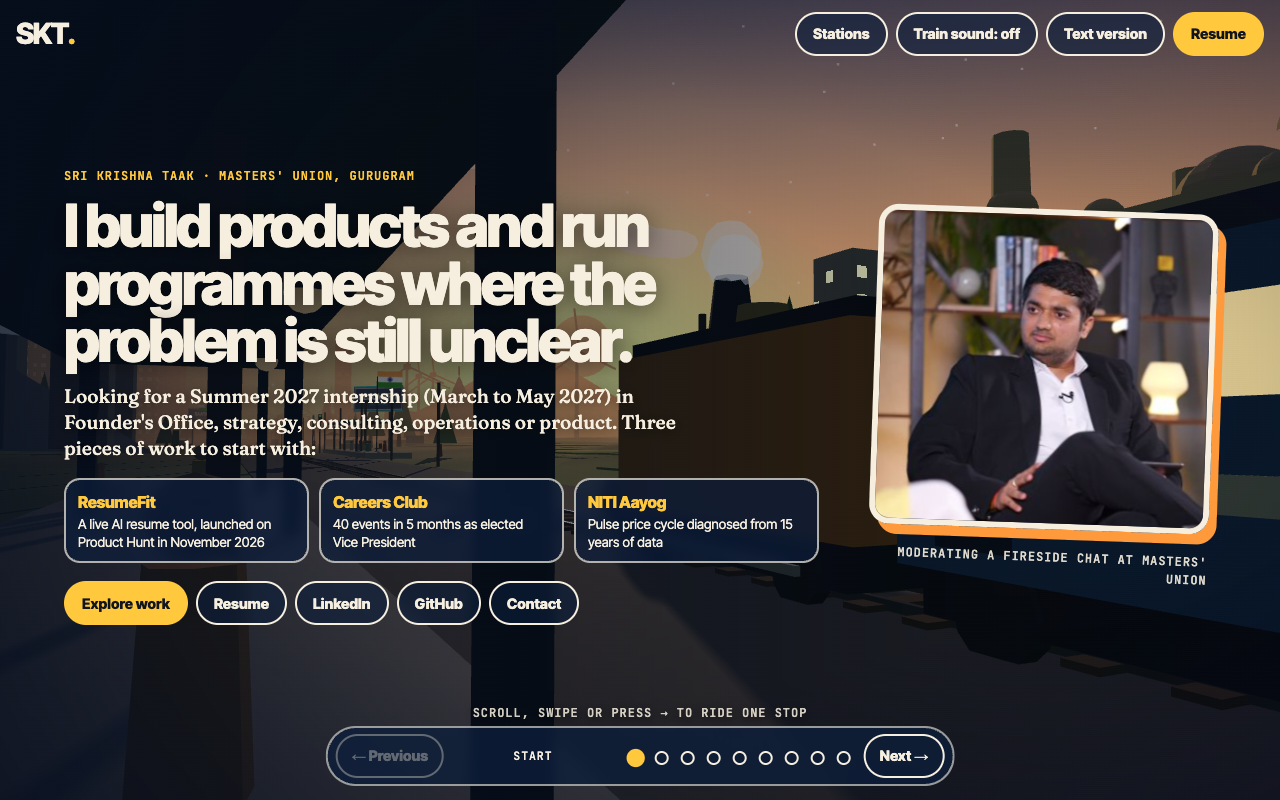
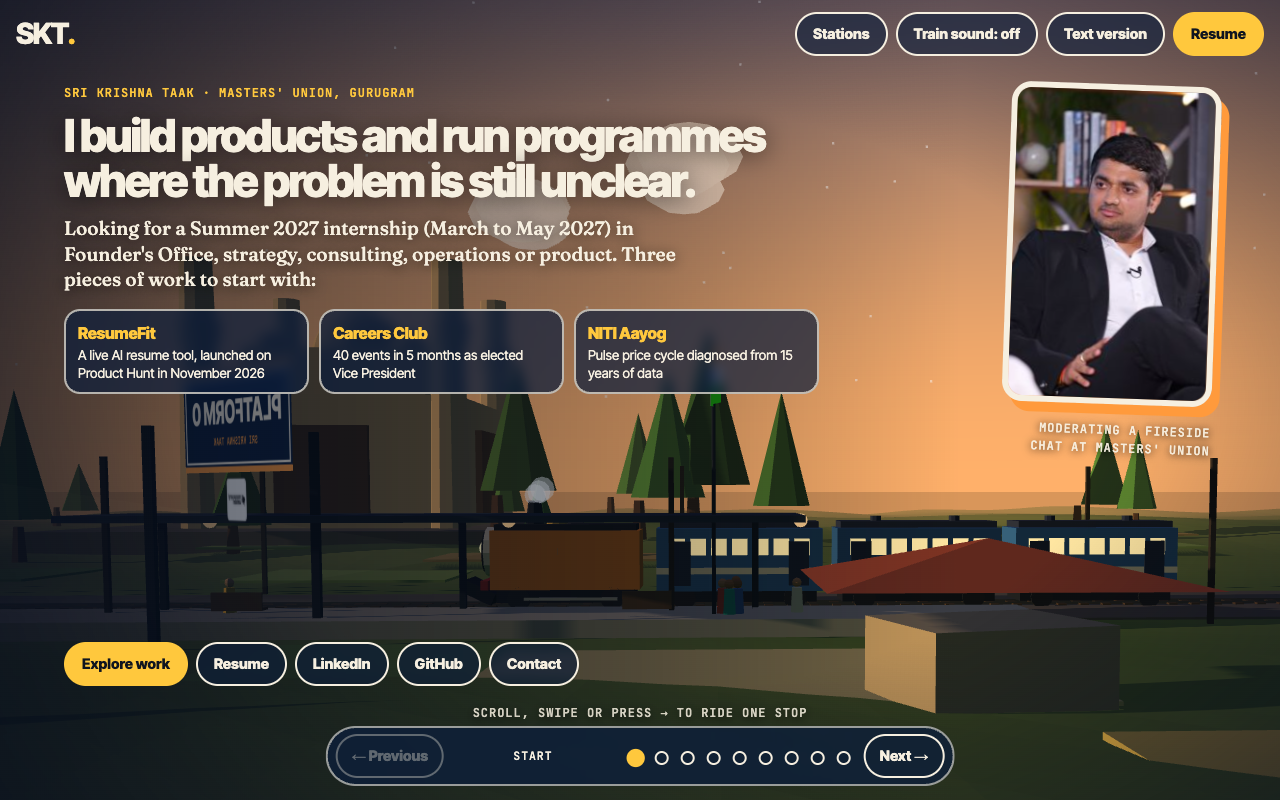
Show the train on the opening screen
Side-on camera with the train in its own band below the intro text; lighter phone scrim.

diff --git a/assets/css/world.css b/assets/css/world.css
@@ -71,22 +71,22 @@ a{color:inherit}
 .card .btn.big{background:var(--gold)}
 
 /* hero (the start stop) */
-.hero{position:absolute;inset:0;display:grid;grid-template-columns:minmax(0,1.2fr) minmax(0,.55fr);align-items:center;gap:clamp(16px,4vw,60px);padding:88px max(20px,5vw) 96px;opacity:0;visibility:hidden;transition:opacity .2s,visibility 0s .2s;pointer-events:none}
-.hero::before{content:'';position:absolute;inset:0;z-index:-1;background:linear-gradient(90deg,rgba(6,14,30,.78),rgba(6,14,30,.4) 58%,transparent)}
+.hero{position:absolute;inset:0;display:grid;grid-template-columns:minmax(0,1.2fr) minmax(0,.55fr);align-items:start;gap:clamp(16px,4vw,60px);padding:84px max(20px,5vw) 96px;opacity:0;visibility:hidden;transition:opacity .2s,visibility 0s .2s;pointer-events:none}
+.hero::before{content:'';position:absolute;inset:0;z-index:-1;background:linear-gradient(90deg,rgba(6,14,30,.72),rgba(6,14,30,.3) 50%,transparent 75%)}
 .hero.show{opacity:1;visibility:visible;transition:opacity .2s}
 .hero.show>*{pointer-events:auto}
 .h-k{color:var(--gold);margin:0 0 12px}
-.h-h1{margin:0 0 14px;font-weight:800;font-size:clamp(2rem,4.6vw,4.2rem);line-height:.98;letter-spacing:-.045em;max-width:15em;text-shadow:0 3px 24px rgba(0,0,0,.5)}
+.h-h1{margin:0 0 12px;font-weight:800;font-size:clamp(1.9rem,3.5vw,3.3rem);line-height:1;letter-spacing:-.045em;max-width:17em;text-shadow:0 3px 24px rgba(0,0,0,.5)}
 .h-sub{font-family:Fraunces,Georgia,serif;font-size:clamp(1rem,1.5vw,1.25rem);max-width:34em;margin:0 0 16px;line-height:1.35;text-shadow:0 2px 14px rgba(0,0,0,.6)}
-.chips{list-style:none;margin:0 0 18px;padding:0;display:grid;grid-template-columns:repeat(3,minmax(0,1fr));gap:10px;max-width:760px}
+.chips{list-style:none;margin:0;padding:0;display:grid;grid-template-columns:repeat(3,minmax(0,1fr));gap:10px;max-width:760px}
 .chipcard{width:100%;height:100%;text-align:left;font:inherit;color:var(--cream);background:rgba(11,29,58,.7);border:2px solid rgba(246,239,224,.7);border-radius:16px;padding:10px 12px;cursor:pointer;display:block;text-decoration:none;backdrop-filter:blur(6px);min-height:44px}
 .chipcard:hover{border-color:var(--gold);transform:translateY(-2px)}
 .chipcard b{display:block;color:var(--gold);font-weight:800;font-size:1rem;letter-spacing:-.02em}
 .chipcard span{display:block;font-size:.84rem;line-height:1.3;margin-top:2px}
-.h-act{display:flex;gap:8px;flex-wrap:wrap;margin:0}
-.h-photo{margin:0;justify-self:center;width:min(100%,340px);transform:rotate(2deg)}
+.h-act{display:flex;gap:8px;flex-wrap:wrap;margin:0;position:absolute;left:max(20px,5vw);bottom:114px;z-index:1}
+.h-photo{margin:0;justify-self:end;align-self:start;margin-top:0;width:min(100%,210px);transform:rotate(2deg)}
 .h-photo img{width:100%;aspect-ratio:3/2;object-fit:cover;border:6px solid var(--cream);border-radius:20px;box-shadow:8px 10px 0 var(--saffron)}
-.h-photo figcaption{margin-top:12px;text-align:right;opacity:.9}
+.h-photo figcaption{margin-top:10px;text-align:right;opacity:.95;text-shadow:0 1px 8px rgba(0,0,0,.8)}
 
 /* pager and hint */
 .pager{position:absolute;left:50%;bottom:max(14px,env(safe-area-inset-bottom));transform:translateX(-50%);display:flex;align-items:center;gap:10px;background:rgba(11,29,58,.78);border:2px solid rgba(246,239,224,.6);padding:6px 8px;border-radius:999px;backdrop-filter:blur(6px);max-width:calc(100% - 20px)}
@@ -154,8 +154,9 @@ html.js.plain-on #gl,html.js.plain-on .hud,html.js.plain-on .vig,html.js.plain-o
 html.no-js #gl,html.no-js .vig,html.no-js .cut,html.no-js .hud{display:none}
 
 @media (max-width:860px){
+  .h-act{position:static}.chips{margin-bottom:12px}
   .hero{grid-template-columns:1fr;align-content:start;padding:72px 16px 84px;gap:8px}
-  .hero::before{background:linear-gradient(0deg,rgba(6,14,30,.88),rgba(6,14,30,.55) 60%,rgba(6,14,30,.2))}
+  .hero::before{background:linear-gradient(180deg,rgba(6,14,30,.86),rgba(6,14,30,.62) 58%,rgba(6,14,30,0) 80%)}
   .h-photo{display:none}
   .h-h1{font-size:clamp(1.65rem,7.4vw,2.4rem);margin-bottom:8px}
   .h-sub{font-size:.95rem;margin-bottom:10px}

diff --git a/source/world/src/world.css b/source/world/src/world.css
@@ -71,22 +71,22 @@ a{color:inherit}
 .card .btn.big{background:var(--gold)}
 
 /* hero (the start stop) */
-.hero{position:absolute;inset:0;display:grid;grid-template-columns:minmax(0,1.2fr) minmax(0,.55fr);align-items:center;gap:clamp(16px,4vw,60px);padding:88px max(20px,5vw) 96px;opacity:0;visibility:hidden;transition:opacity .2s,visibility 0s .2s;pointer-events:none}
-.hero::before{content:'';position:absolute;inset:0;z-index:-1;background:linear-gradient(90deg,rgba(6,14,30,.78),rgba(6,14,30,.4) 58%,transparent)}
+.hero{position:absolute;inset:0;display:grid;grid-template-columns:minmax(0,1.2fr) minmax(0,.55fr);align-items:start;gap:clamp(16px,4vw,60px);padding:84px max(20px,5vw) 96px;opacity:0;visibility:hidden;transition:opacity .2s,visibility 0s .2s;pointer-events:none}
+.hero::before{content:'';position:absolute;inset:0;z-index:-1;background:linear-gradient(90deg,rgba(6,14,30,.72),rgba(6,14,30,.3) 50%,transparent 75%)}
 .hero.show{opacity:1;visibility:visible;transition:opacity .2s}
 .hero.show>*{pointer-events:auto}
 .h-k{color:var(--gold);margin:0 0 12px}
-.h-h1{margin:0 0 14px;font-weight:800;font-size:clamp(2rem,4.6vw,4.2rem);line-height:.98;letter-spacing:-.045em;max-width:15em;text-shadow:0 3px 24px rgba(0,0,0,.5)}
+.h-h1{margin:0 0 12px;font-weight:800;font-size:clamp(1.9rem,3.5vw,3.3rem);line-height:1;letter-spacing:-.045em;max-width:17em;text-shadow:0 3px 24px rgba(0,0,0,.5)}
 .h-sub{font-family:Fraunces,Georgia,serif;font-size:clamp(1rem,1.5vw,1.25rem);max-width:34em;margin:0 0 16px;line-height:1.35;text-shadow:0 2px 14px rgba(0,0,0,.6)}
-.chips{list-style:none;margin:0 0 18px;padding:0;display:grid;grid-template-columns:repeat(3,minmax(0,1fr));gap:10px;max-width:760px}
+.chips{list-style:none;margin:0;padding:0;display:grid;grid-template-columns:repeat(3,minmax(0,1fr));gap:10px;max-width:760px}
 .chipcard{width:100%;height:100%;text-align:left;font:inherit;color:var(--cream);background:rgba(11,29,58,.7);border:2px solid rgba(246,239,224,.7);border-radius:16px;padding:10px 12px;cursor:pointer;display:block;text-decoration:none;backdrop-filter:blur(6px);min-height:44px}
 .chipcard:hover{border-color:var(--gold);transform:translateY(-2px)}
 .chipcard b{display:block;color:var(--gold);font-weight:800;font-size:1rem;letter-spacing:-.02em}
 .chipcard span{display:block;font-size:.84rem;line-height:1.3;margin-top:2px}
-.h-act{display:flex;gap:8px;flex-wrap:wrap;margin:0}
-.h-photo{margin:0;justify-self:center;width:min(100%,340px);transform:rotate(2deg)}
+.h-act{display:flex;gap:8px;flex-wrap:wrap;margin:0;position:absolute;left:max(20px,5vw);bottom:114px;z-index:1}
+.h-photo{margin:0;justify-self:end;align-self:start;margin-top:0;width:min(100%,210px);transform:rotate(2deg)}
 .h-photo img{width:100%;aspect-ratio:3/2;object-fit:cover;border:6px solid var(--cream);border-radius:20px;box-shadow:8px 10px 0 var(--saffron)}
-.h-photo figcaption{margin-top:12px;text-align:right;opacity:.9}
+.h-photo figcaption{margin-top:10px;text-align:right;opacity:.95;text-shadow:0 1px 8px rgba(0,0,0,.8)}
 
 /* pager and hint */
 .pager{position:absolute;left:50%;bottom:max(14px,env(safe-area-inset-bottom));transform:translateX(-50%);display:flex;align-items:center;gap:10px;background:rgba(11,29,58,.78);border:2px solid rgba(246,239,224,.6);padding:6px 8px;border-radius:999px;backdrop-filter:blur(6px);max-width:calc(100% - 20px)}
@@ -154,8 +154,9 @@ html.js.plain-on #gl,html.js.plain-on .hud,html.js.plain-on .vig,html.js.plain-o
 html.no-js #gl,html.no-js .vig,html.no-js .cut,html.no-js .hud{display:none}
 
 @media (max-width:860px){
+  .h-act{position:static}.chips{margin-bottom:12px}
   .hero{grid-template-columns:1fr;align-content:start;padding:72px 16px 84px;gap:8px}
-  .hero::before{background:linear-gradient(0deg,rgba(6,14,30,.88),rgba(6,14,30,.55) 60%,rgba(6,14,30,.2))}
+  .hero::before{background:linear-gradient(180deg,rgba(6,14,30,.86),rgba(6,14,30,.62) 58%,rgba(6,14,30,0) 80%)}
   .h-photo{display:none}
   .h-h1{font-size:clamp(1.65rem,7.4vw,2.4rem);margin-bottom:8px}
   .h-sub{font-size:.95rem;margin-bottom:10px}

diff --git a/assets/js/world.js b/assets/js/world.js
@@ -540,10 +540,13 @@
     wheels.forEach(function (wh) { wh.rotation.x -= dz * 1.6; });
     /* camera: platform view at the start, follow view once the train has left */
     var port = W / Hh < .8, back = port ? 58 : 47, hgt = port ? 12 : 8.8, ipc = smooth(0, 1, pos);
-    var cx0 = -9.4 + Math.sin(time * .35) * .6 * amb, cy0 = 2.7 + Math.sin(time * .27) * .12 * amb, cz0 = z + (port ? 24 : 18);
+    var cx0 = (port ? -66 : -64) + Math.sin(time * .35) * .6 * amb, cy0 = (port ? 9 : 6.5) + Math.sin(time * .27) * .12 * amb, cz0 = z + 12;
     camera.position.set(lerp(cx0, 0, ipc), lerp(cy0, hgt, ipc), lerp(cz0, z + back, ipc));
-    tgt.set(lerp(-1.5, 0, ipc), lerp(3.4, 3.2, ipc), lerp(z + 1, z - 22, ipc)); camera.lookAt(tgt);
-    camera.fov = lerp(port ? 64 : 48, port ? 74 : 62, ipc); camera.updateProjectionMatrix();
+    tgt.set(lerp(0, 0, ipc), lerp(2.6, 3.2, ipc), lerp(z + 15, z - 22, ipc)); camera.lookAt(tgt);
+    camera.fov = lerp(port ? 52 : 38, port ? 74 : 62, ipc);
+    /* at the start the train sits in the free part of the screen: right and low on desktop, low on phones */
+    var vk = 1 - ipc; if (vk > .002) camera.setViewOffset(W, Hh, port ? 0 : -W * .1 * vk, -Hh * (port ? .3 : .2) * vk, W, Hh); else camera.clearViewOffset();
+    camera.updateProjectionMatrix();
     /* biome atmosphere */
     var b = bio(fv), sy = b.sunY;
     sd.set(.35, Math.max(sy, -.25), -.9).normalize();

diff --git a/source/world/src/world.js b/source/world/src/world.js
@@ -540,10 +540,13 @@
     wheels.forEach(function (wh) { wh.rotation.x -= dz * 1.6; });
     /* camera: platform view at the start, follow view once the train has left */
     var port = W / Hh < .8, back = port ? 58 : 47, hgt = port ? 12 : 8.8, ipc = smooth(0, 1, pos);
-    var cx0 = -9.4 + Math.sin(time * .35) * .6 * amb, cy0 = 2.7 + Math.sin(time * .27) * .12 * amb, cz0 = z + (port ? 24 : 18);
+    var cx0 = (port ? -66 : -64) + Math.sin(time * .35) * .6 * amb, cy0 = (port ? 9 : 6.5) + Math.sin(time * .27) * .12 * amb, cz0 = z + 12;
     camera.position.set(lerp(cx0, 0, ipc), lerp(cy0, hgt, ipc), lerp(cz0, z + back, ipc));
-    tgt.set(lerp(-1.5, 0, ipc), lerp(3.4, 3.2, ipc), lerp(z + 1, z - 22, ipc)); camera.lookAt(tgt);
-    camera.fov = lerp(port ? 64 : 48, port ? 74 : 62, ipc); camera.updateProjectionMatrix();
+    tgt.set(lerp(0, 0, ipc), lerp(2.6, 3.2, ipc), lerp(z + 15, z - 22, ipc)); camera.lookAt(tgt);
+    camera.fov = lerp(port ? 52 : 38, port ? 74 : 62, ipc);
+    /* at the start the train sits in the free part of the screen: right and low on desktop, low on phones */
+    var vk = 1 - ipc; if (vk > .002) camera.setViewOffset(W, Hh, port ? 0 : -W * .1 * vk, -Hh * (port ? .3 : .2) * vk, W, Hh); else camera.clearViewOffset();
+    camera.updateProjectionMatrix();
     /* biome atmosphere */
     var b = bio(fv), sy = b.sunY;
     sd.set(.35, Math.max(sy, -.25), -.9).normalize();
